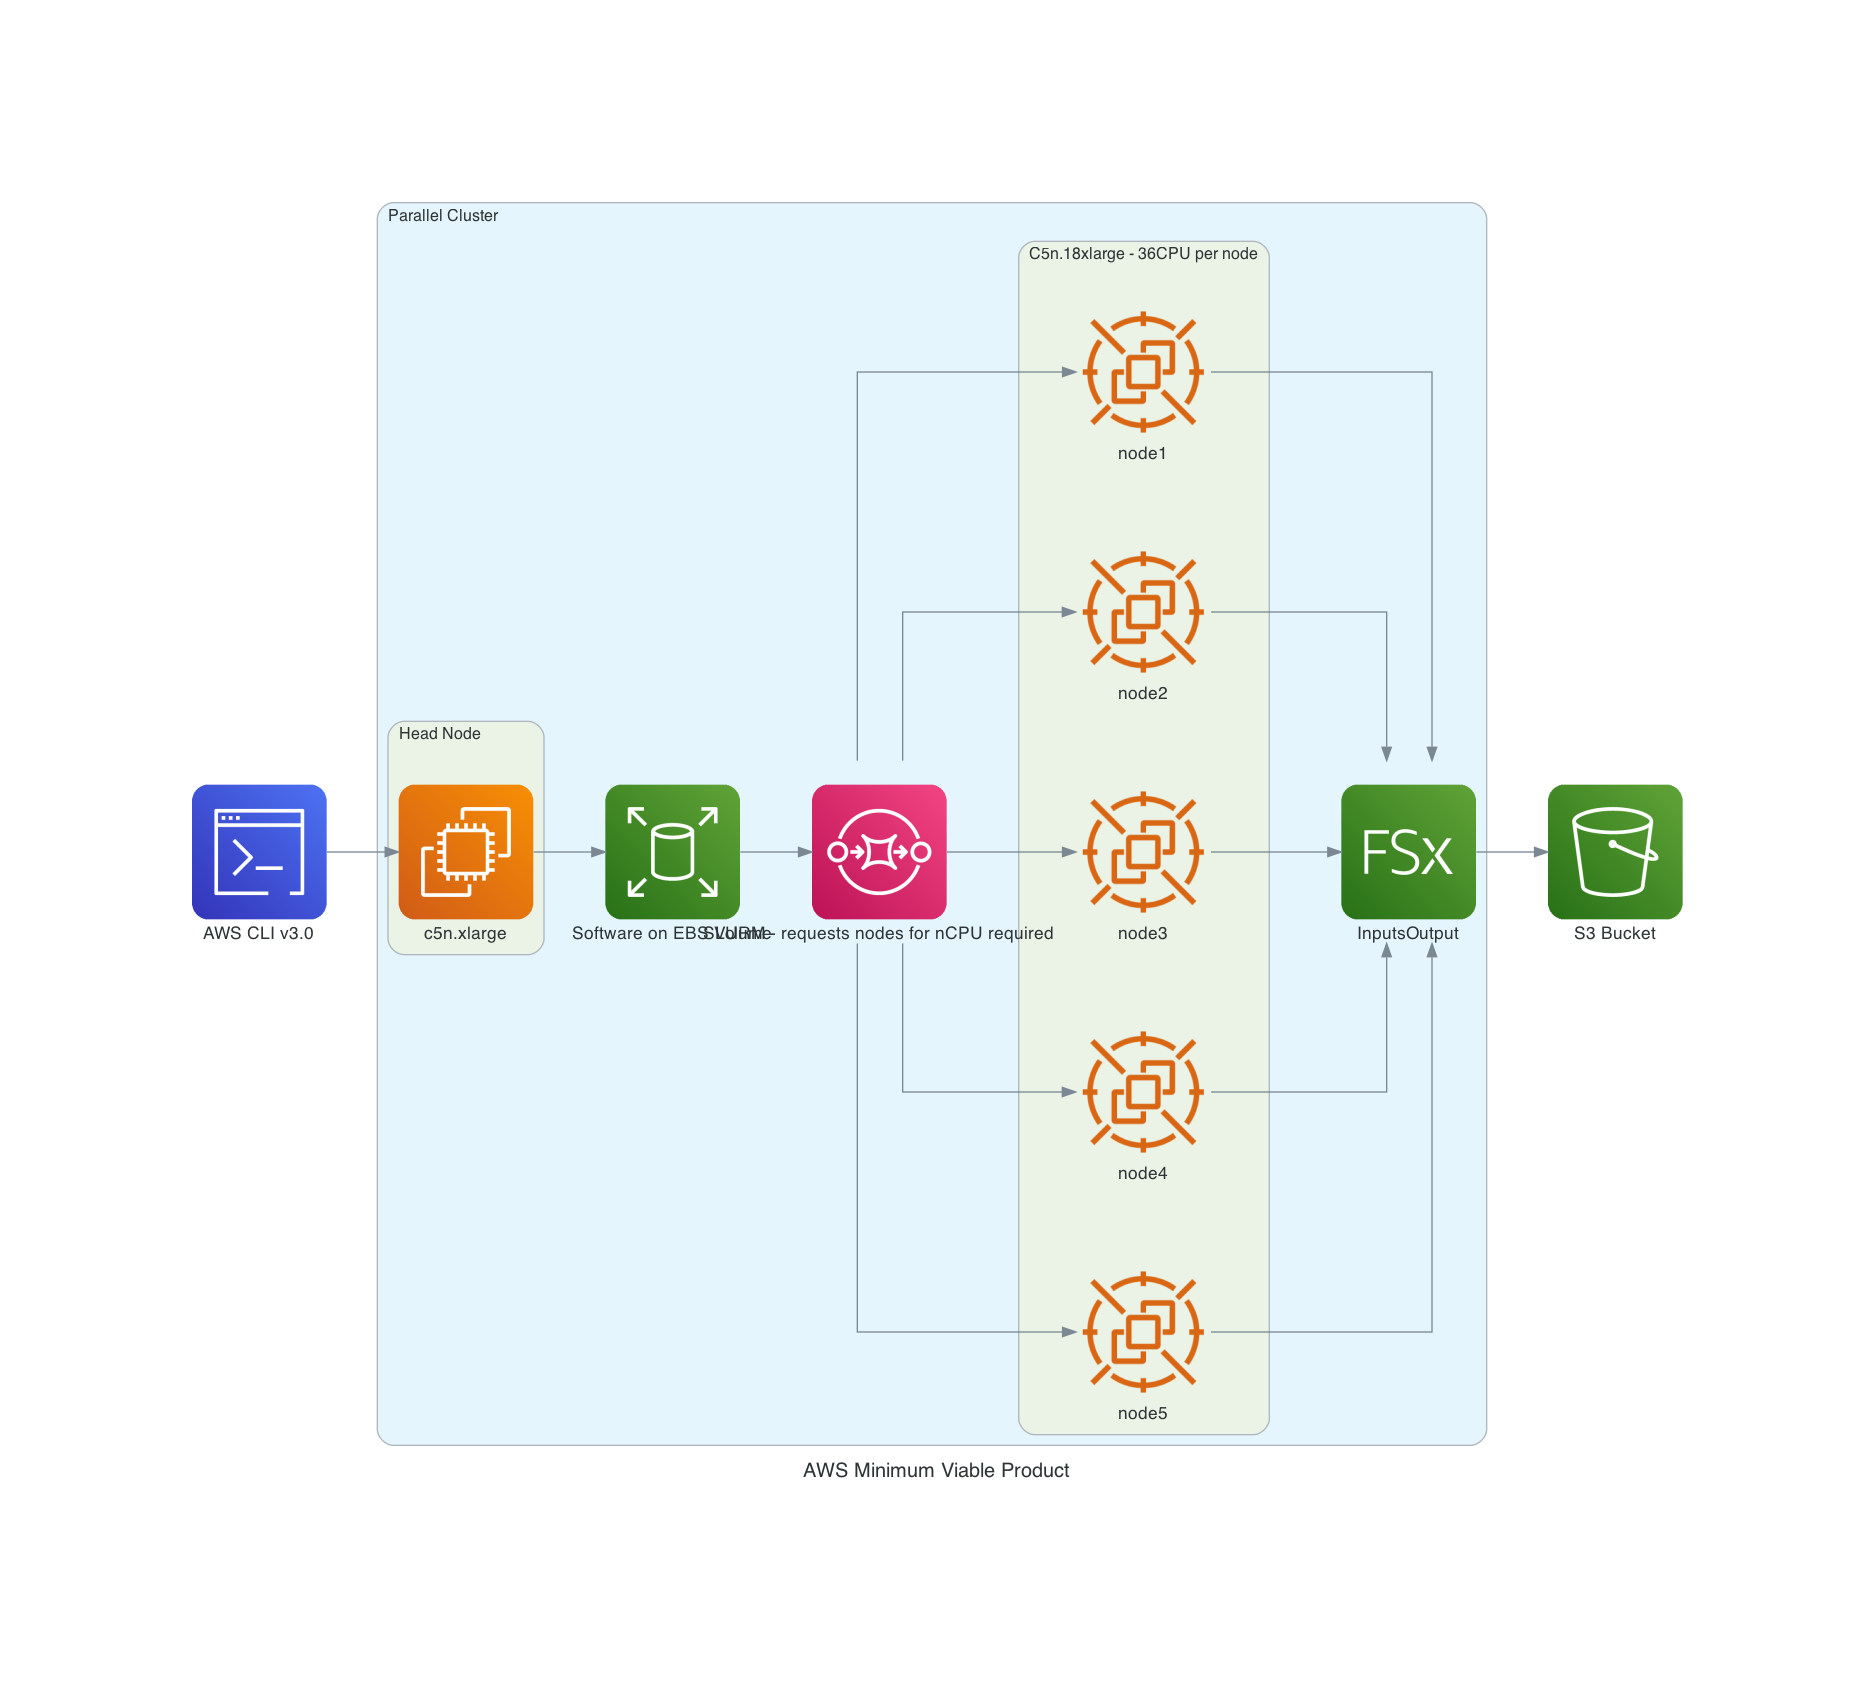
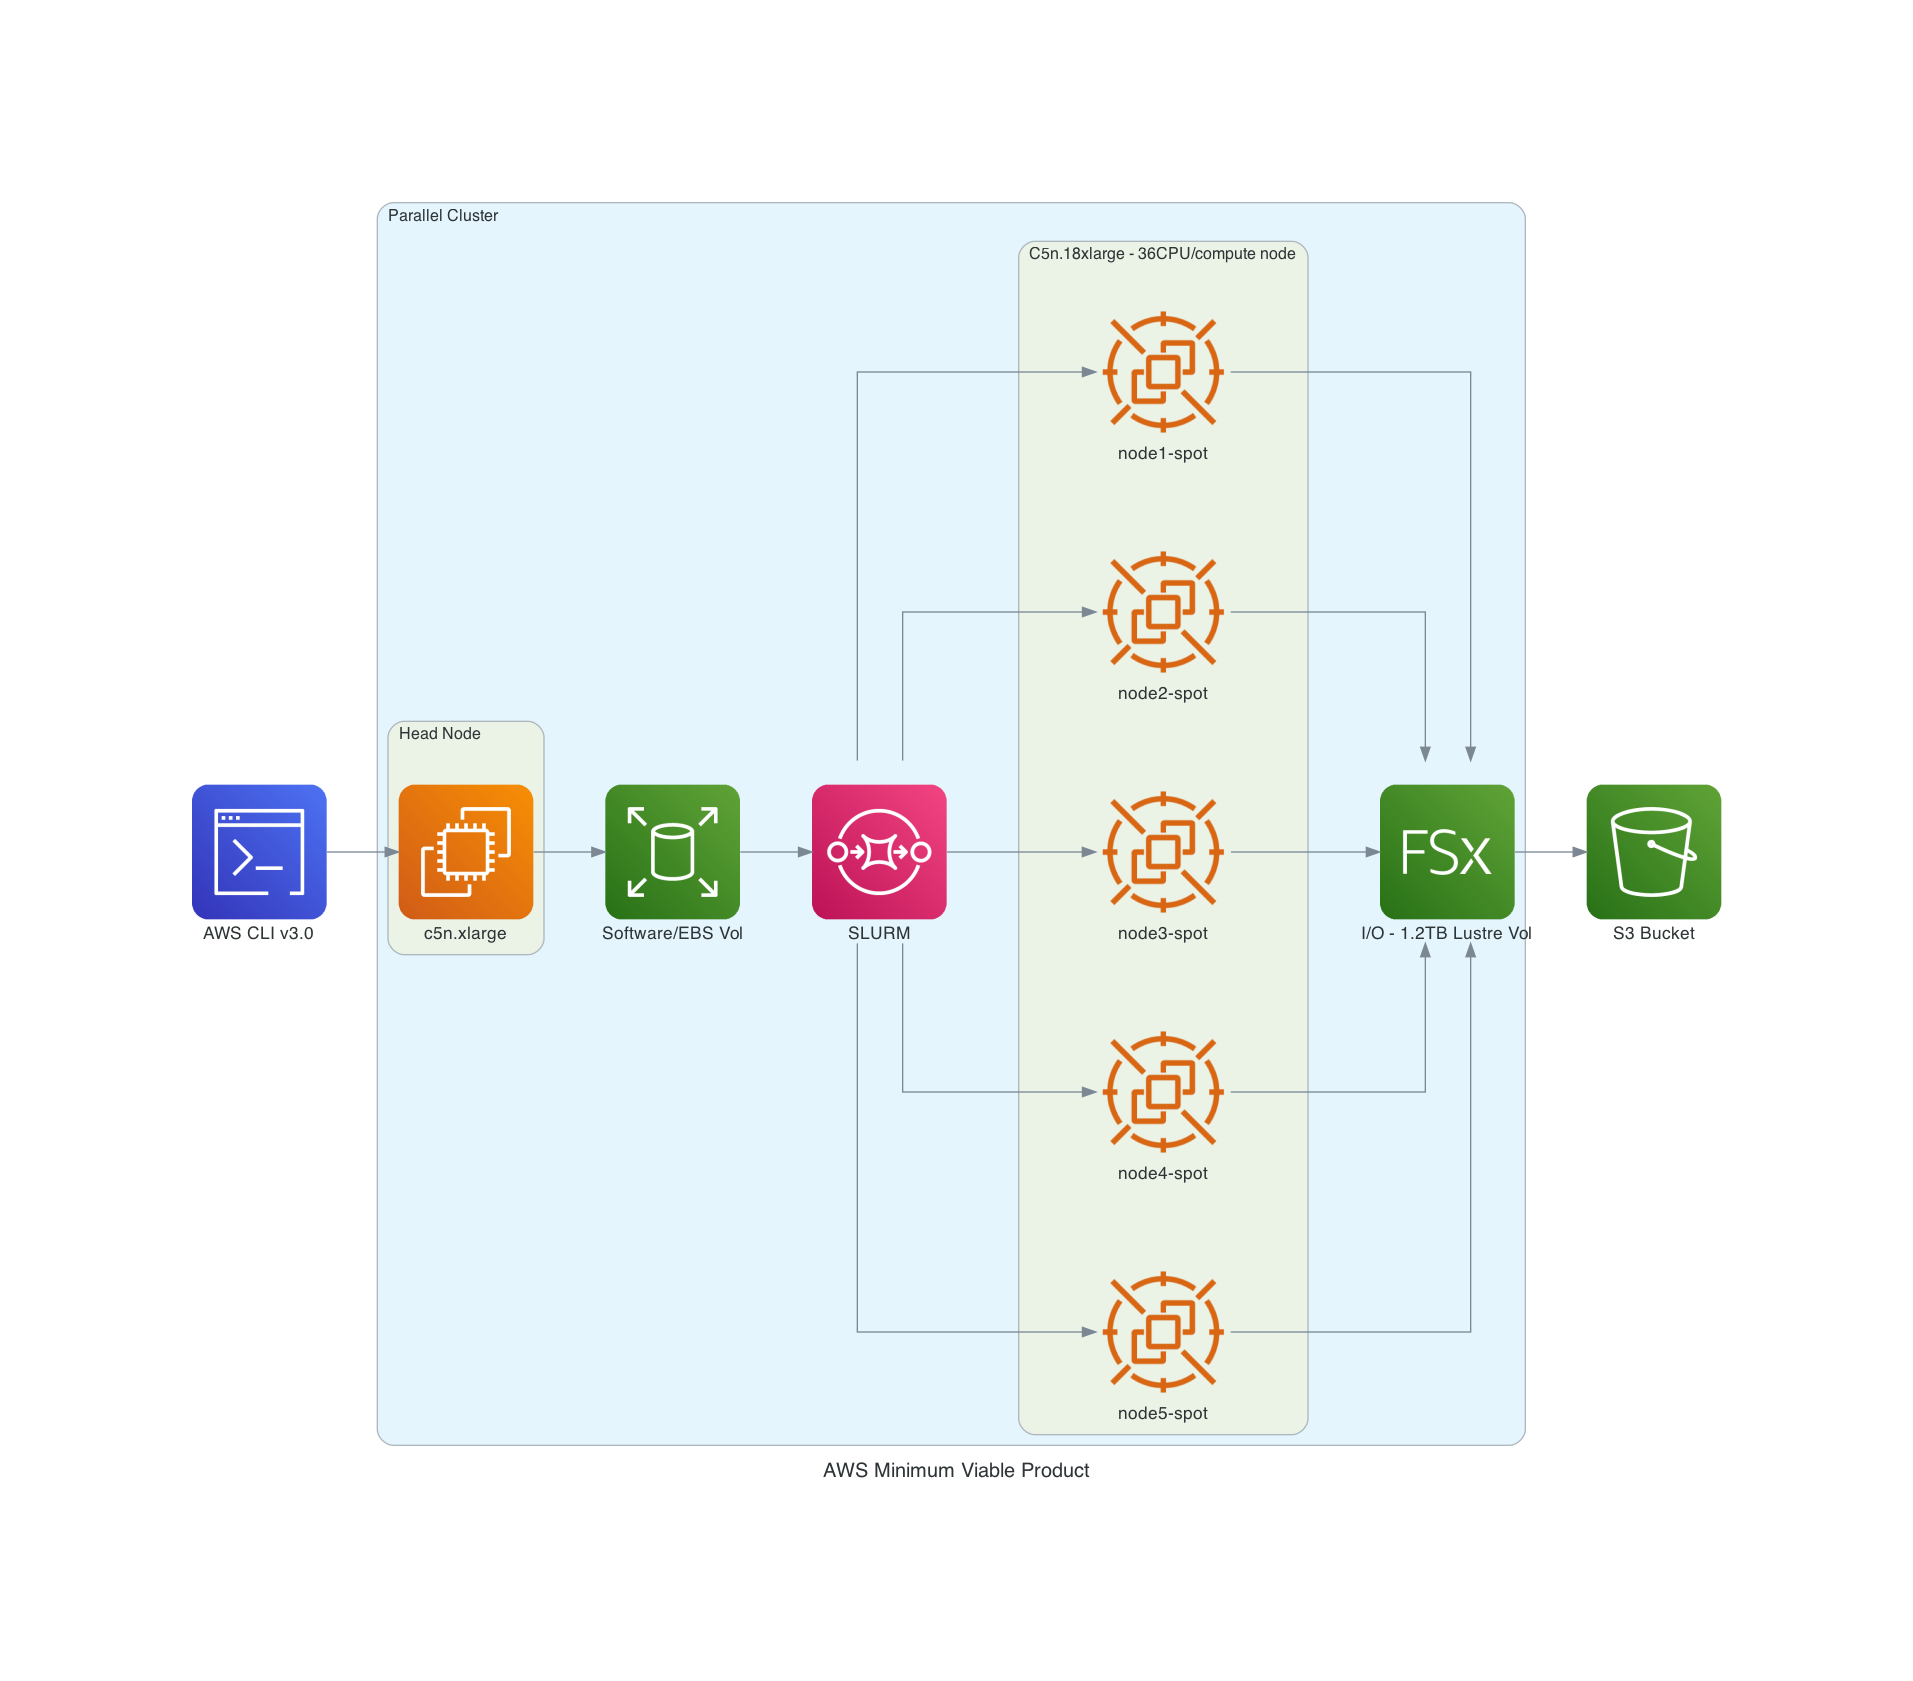
update

diff --git a/docs/diagrams/nested_clusters.py b/docs/diagrams/nested_clusters.py
@@ -12,21 +12,18 @@ with Diagram("AWS Minimum Viable Product", show=False):
 
         queue = SQS("SLURM")
         
-        volume1 = EBS("Software on EBS Volume")
+        volume1 = EBS("Software/EBS Vol")
 
         with Cluster("Head Node"):
             head = [EC2("c5n.xlarge")]
 
-        with Cluster("C5n.18xlarge Nodes"):
-            workers = [EC2SpotInstance("node1"),
-                       EC2SpotInstance("node2"),
-                        EC2SpotInstance("node3"),
-                        EC2SpotInstance("node4"),
-                        EC2SpotInstance("node5"),
-                        EC2SpotInstance("node6"),
-                        EC2SpotInstance("node7"),
-                        EC2SpotInstance("node8")]
-        volume2 = FSx("InputsOutput")
+        with Cluster("C5n.18xlarge - 36CPU/compute node"):
+            workers = [EC2SpotInstance("node1-spot"),
+                       EC2SpotInstance("node2-spot"),
+                        EC2SpotInstance("node3-spot"),
+                        EC2SpotInstance("node4-spot"),
+                        EC2SpotInstance("node5-spot")]
+        volume2 = FSx("I/O - 1.2TB Lustre Vol")
 
 
     store = S3("S3 Bucket")
